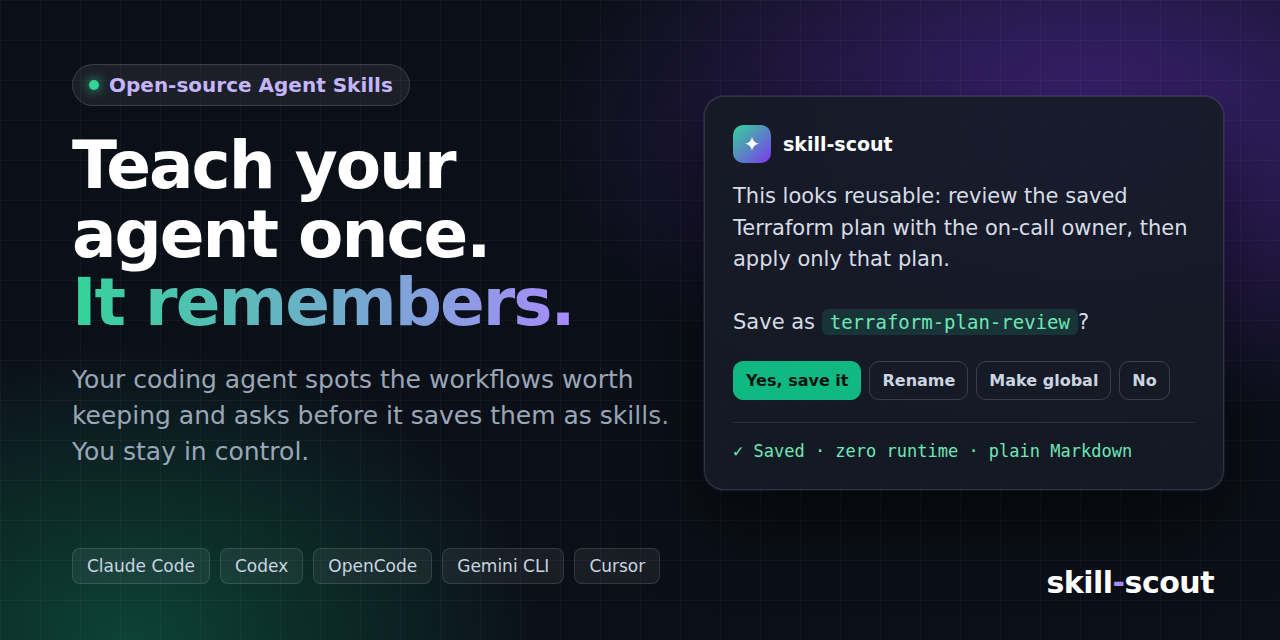
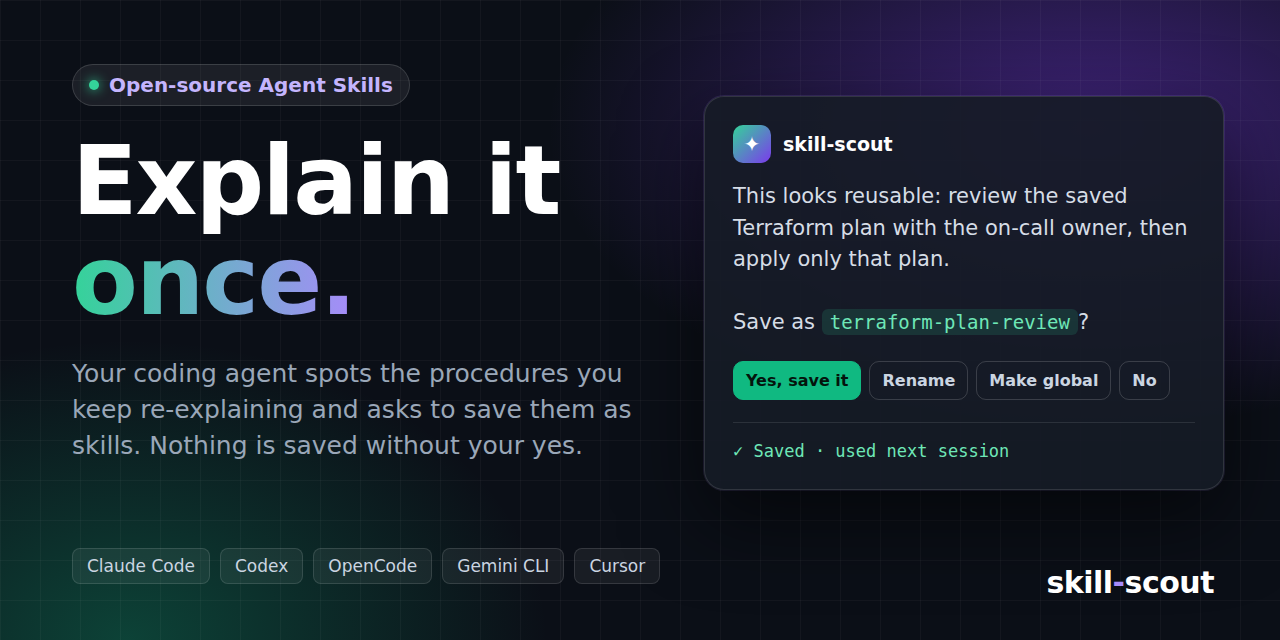
Rewrite README landing copy around the re-explaining problem
New slogan "Explain it once.", a problem section, a three-step
how-it-works, and a short benefits list. Demo and social preview
now show the full loop, including the next session.

Claude-Session: https://claude.ai/code/session_01WDHhNokaMyZR5PG5Hj635U

Changed region(s): [[0.0625, 0.2188, 0.4375, 0.5312], [0.0625, 0.5625, 0.5312, 0.7188], [0.6562, 0.6875, 0.875, 0.7188]]

diff --git a/README.md b/README.md
@@ -3,54 +3,55 @@
 [![Validate](https://github.com/Neverdecel/skill-scout/actions/workflows/validate.yml/badge.svg)](https://github.com/Neverdecel/skill-scout/actions/workflows/validate.yml)
 [![License: MIT](https://img.shields.io/badge/License-MIT-blue.svg)](LICENSE)
 
-**Agent notices. Human decides. The skill library remembers.**
+**Explain it once.**
 
-Two [Agent Skills](https://agentskills.io) that let any coding agent notice durable, reusable procedures during normal work and **ask before** saving them as skills. They also keep the library tidy when you ask. They are plain Markdown with no runtime, no hooks, and no dependencies, so they work in any harness that reads `SKILL.md`: Claude Code, OpenCode, Codex, Gemini CLI, Cursor, and others.
+Your coding agent spots the procedures you keep re-explaining and asks to save them as skills. Nothing is saved without your yes.
 
-![skill-scout proposes a skill and waits for approval](docs/demo.svg)
+![skill-scout asks to save a repeated procedure as a skill](docs/demo.svg)
 
-> This looks reusable: review the saved Terraform plan with the on-call owner, then apply only that artifact. Save as `terraform-plan-review` (project skill)?
+## The problem
 
-Reply **yes**, **no**, **make it global**, **rename it**, **add X**, or **merge with Y**. Ordinary work should produce no suggestion.
+Each new session starts blank. You explain your deploy, your review steps, and last week's fix again. Writing skills by hand takes time, and memory that saves on its own fills with noise.
 
-## What's inside
+## How it works
 
-| Path | Role |
-| --- | --- |
-| [`skills/skill-scout`](skills/skill-scout/SKILL.md) | Notices or mines candidates, proposes them in two sentences, and saves only after approval |
-| [`skills/skill-curation`](skills/skill-curation/SKILL.md) | Opt-in review of the existing library: merge, split, edit, prune, all only after approval |
-| [`snippets/always-on.md`](snippets/always-on.md) | Five lines for your `AGENTS.md` / `CLAUDE.md` so the agent checks for candidates without being asked |
-| [`examples/terraform-plan-review`](examples/terraform-plan-review/SKILL.md) | The shape of a good generated skill (not installed) |
+1. **Notice.** At a stopping point, the agent sees a procedure you confirmed and would otherwise repeat.
+2. **Ask.** It proposes a name and scope in two sentences.
+3. **Save.** Reply **yes**, **no**, **rename it**, **make it global**, **add X**, or **merge with Y**. It writes only what you approved.
 
-A skill is **one on-demand job**. Its `description` is the only discovery index, and its body is the confirmed procedure the agent would get wrong without it. Always-on rules, personas, commands, and memory are not skills, and skill-scout stays silent about them. Details: [docs/design.md](docs/design.md).
+Next session, the agent loads the skill when the job comes up. You do not explain it again.
+
+## Why skill-scout
+
+- **You decide.** Every create, edit, and delete needs your explicit approval.
+- **Quiet.** Ordinary work gets no suggestions. Most sessions produce none.
+- **Clean.** It skips one-offs, preferences, and secrets, and updates an existing skill before it adds a new one. Ask `skill-curation` to merge, split, or prune your library.
+- **Portable.** Plain Markdown in the open [Agent Skills](https://agentskills.io) format. No runtime, hooks, or dependencies. Works in Claude Code, Codex, OpenCode, Gemini CLI, Cursor, and any harness that reads `SKILL.md`.
+- **Tested.** [14 behavior scenarios](evals/RESULTS.md), including rejection, secrets, and a fake approval hidden in a file.
 
 ## Install
 
-**1. Install the skills.** Copy both folders into a skills directory your harness reads:
+```sh
+npx skills add Neverdecel/skill-scout
+```
+
+The [`skills` CLI](https://github.com/vercel-labs/skills) knows each harness's paths. To install by hand, copy both folders into a skills directory your harness reads:
 
 ```sh
 git clone https://github.com/Neverdecel/skill-scout.git
 cp -r skill-scout/skills/* ~/.agents/skills/      # or ~/.claude/skills/, ~/.config/opencode/skills/, ...
 ```
 
-Or use the [`skills` CLI](https://github.com/vercel-labs/skills), which knows each harness's paths:
+**Recommended: add the always-on snippet.** Skills load on demand. Without the snippet, `skill-scout` runs only when you ask ("mine skills from this session") or when its description happens to match. To have the agent check at stopping points, append [`snippets/always-on.md`](snippets/always-on.md) to your global or project instructions file (`AGENTS.md`, `CLAUDE.md`, `GEMINI.md`, ...).
 
-```sh
-npx skills add Neverdecel/skill-scout
-```
-
-**2. Optional but recommended: add the always-on snippet.** Skills load on demand, so without the snippet `skill-scout` runs only when you ask ("mine skills from this session") or when its description happens to match. To have the agent check for candidates at stopping points, append [`snippets/always-on.md`](snippets/always-on.md) to your global or project instructions file (`AGENTS.md`, `CLAUDE.md`, `GEMINI.md`, ...).
-
-**3.** Restart the harness if it discovers skills only at startup.
-
-Per-harness paths, updates, and uninstalling: [docs/installation.md](docs/installation.md).
+Restart the harness if it discovers skills only at startup. Per-harness paths, updates, and uninstalling: [docs/installation.md](docs/installation.md).
 
 ## Usage
 
 | You | Agent |
 | --- | --- |
 | Ordinary work | No extra chatter |
-| Confirm a durable team or personal procedure | Short save proposal at a stopping point (with the snippet) |
+| Confirm a procedure you would explain again | Short save proposal at a stopping point (with the snippet) |
 | "Mine skills from this session" | Lists candidates; writes nothing yet |
 | Approve, reject, rename, re-scope, or merge | Writes only the approved change, then shows the path |
 | "Never suggest X again" | Stops at once and offers to add X to the snippet's ignore list |
@@ -58,6 +59,17 @@ Per-harness paths, updates, and uninstalling: [docs/installation.md](docs/instal
 
 - **Project skills** are repository or team procedures and live in the project's skills directory. This is the default.
 - **Global skills** are how you work across projects and live in your user skills directory.
+
+## What's inside
+
+| Path | Role |
+| --- | --- |
+| [`skills/skill-scout`](skills/skill-scout/SKILL.md) | Notices or mines candidates, proposes them in two sentences, and saves only after approval |
+| [`skills/skill-curation`](skills/skill-curation/SKILL.md) | Opt-in review of the existing library: merge, split, edit, prune, all only after approval |
+| [`snippets/always-on.md`](snippets/always-on.md) | A few lines for your `AGENTS.md` / `CLAUDE.md` so the agent checks for candidates without being asked |
+| [`examples/terraform-plan-review`](examples/terraform-plan-review/SKILL.md) | The shape of a good generated skill (not installed) |
+
+A skill is **one on-demand job**. Its `description` is the only discovery index, and its body is the confirmed procedure the agent would get wrong without it. Always-on rules, personas, commands, and memory are not skills, and skill-scout stays silent about them. Details: [docs/design.md](docs/design.md).
 
 ## Limits
 
